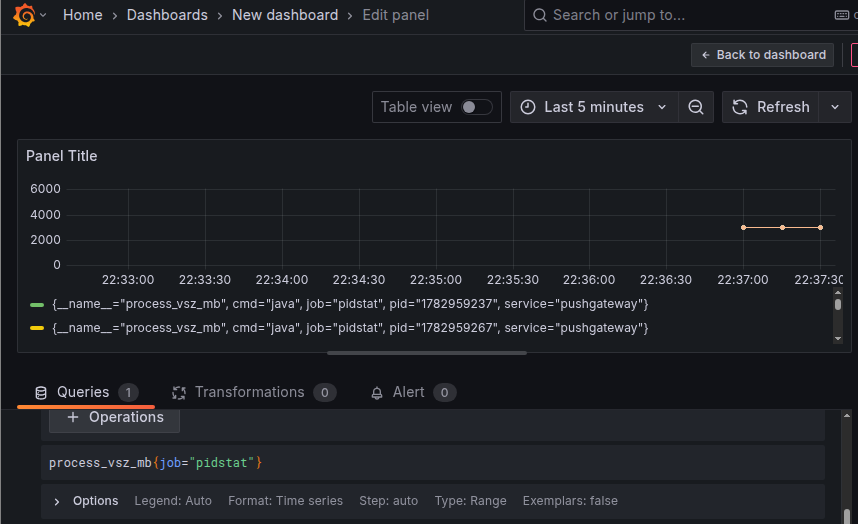
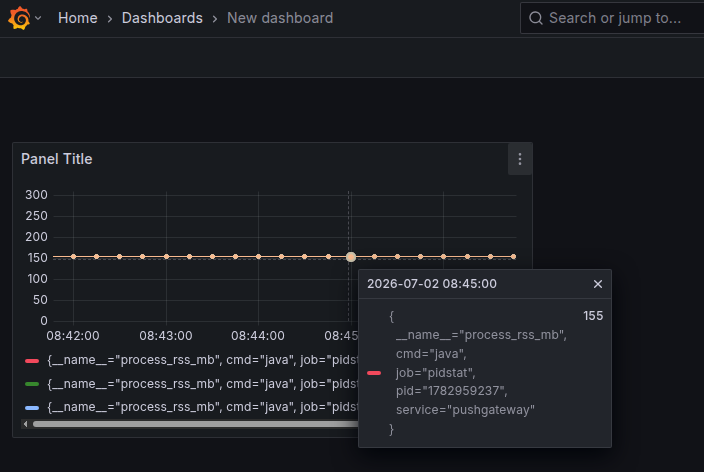
intermediate revision - fixed prometheus label evaluation

diff --git a/csharp/basic-countermonitor/README.md b/csharp/basic-countermonitor/README.md
@@ -382,20 +382,35 @@ cat /tmp/log.64915.txt
 ```
 
 ```text
-process_rss_mb{pid="1782959237",cmd="java"} 154.6
-process_vsz_mb{pid="1782959237",cmd="java"} 3035.3
-process_majflt{pid="1782959237",cmd="java"} 0.07
-process_rss_mb{pid="1782959267",cmd="java"} 154.6
-process_vsz_mb{pid="1782959267",cmd="java"} 3035.3
-process_majflt{pid="1782959267",cmd="java"} 0.10
-process_rss_mb{pid="1782959297",cmd="java"} 154.6
-process_vsz_mb{pid="1782959297",cmd="java"} 3035.3
-process_majflt{pid="1782959297",cmd="java"} 0.07
+process_rss_mb{pid="56398",cmd="java"} 154.7
+process_vsz_mb{pid="56398",cmd="java"} 3035.3
+process_majflt{pid="56398",cmd="java"} 0.07
+process_rss_mb{pid="56398",cmd="java"} 154.7
+process_vsz_mb{pid="56398",cmd="java"} 3035.3
+process_majflt{pid="56398",cmd="java"} 0.10
+process_rss_mb{pid="56398",cmd="java"} 154.7
+process_vsz_mb{pid="56398",cmd="java"} 3035.3
+process_majflt{pid="56398",cmd="java"} 0.00
+process_rss_mb{pid="56398",cmd="java"} 154.7
+process_vsz_mb{pid="56398",cmd="java"} 3035.3
+process_majflt{pid="56398",cmd="java"} 0.17
 ```
 
-- manual configuration of Prometheus data source and process_average dashboard may be required
+![pushgateway dashboard](screenshots/capture-pushgateway.png)
 
+- manual configuration of Prometheus data source and process_average dashboard may be required - e.g. selecting counter
+
+```text
+process_vsz_mb{job="pidstat"}
+```
 ![grafana dashboard (linux)](screenshots/capture-grafana-linux.png)
+
+Ignore the data buffering error
+```text
+pushed metrics are invalid or inconsistent with existing metrics: 57 error(s) occurred:
+* collected metric "process_rss_mb" { label:{name:"cmd"  value:"java"}  label:{name:"instance"  value:""}  label:{name:"job"  value:"pidstat"}  label:{name:"pid"  value:"56398"}  untyped:{value:154.7}} was collected before with the same name and label values
+``` 
+it will be solved WIP.
 
 
 ### Troubleshooting